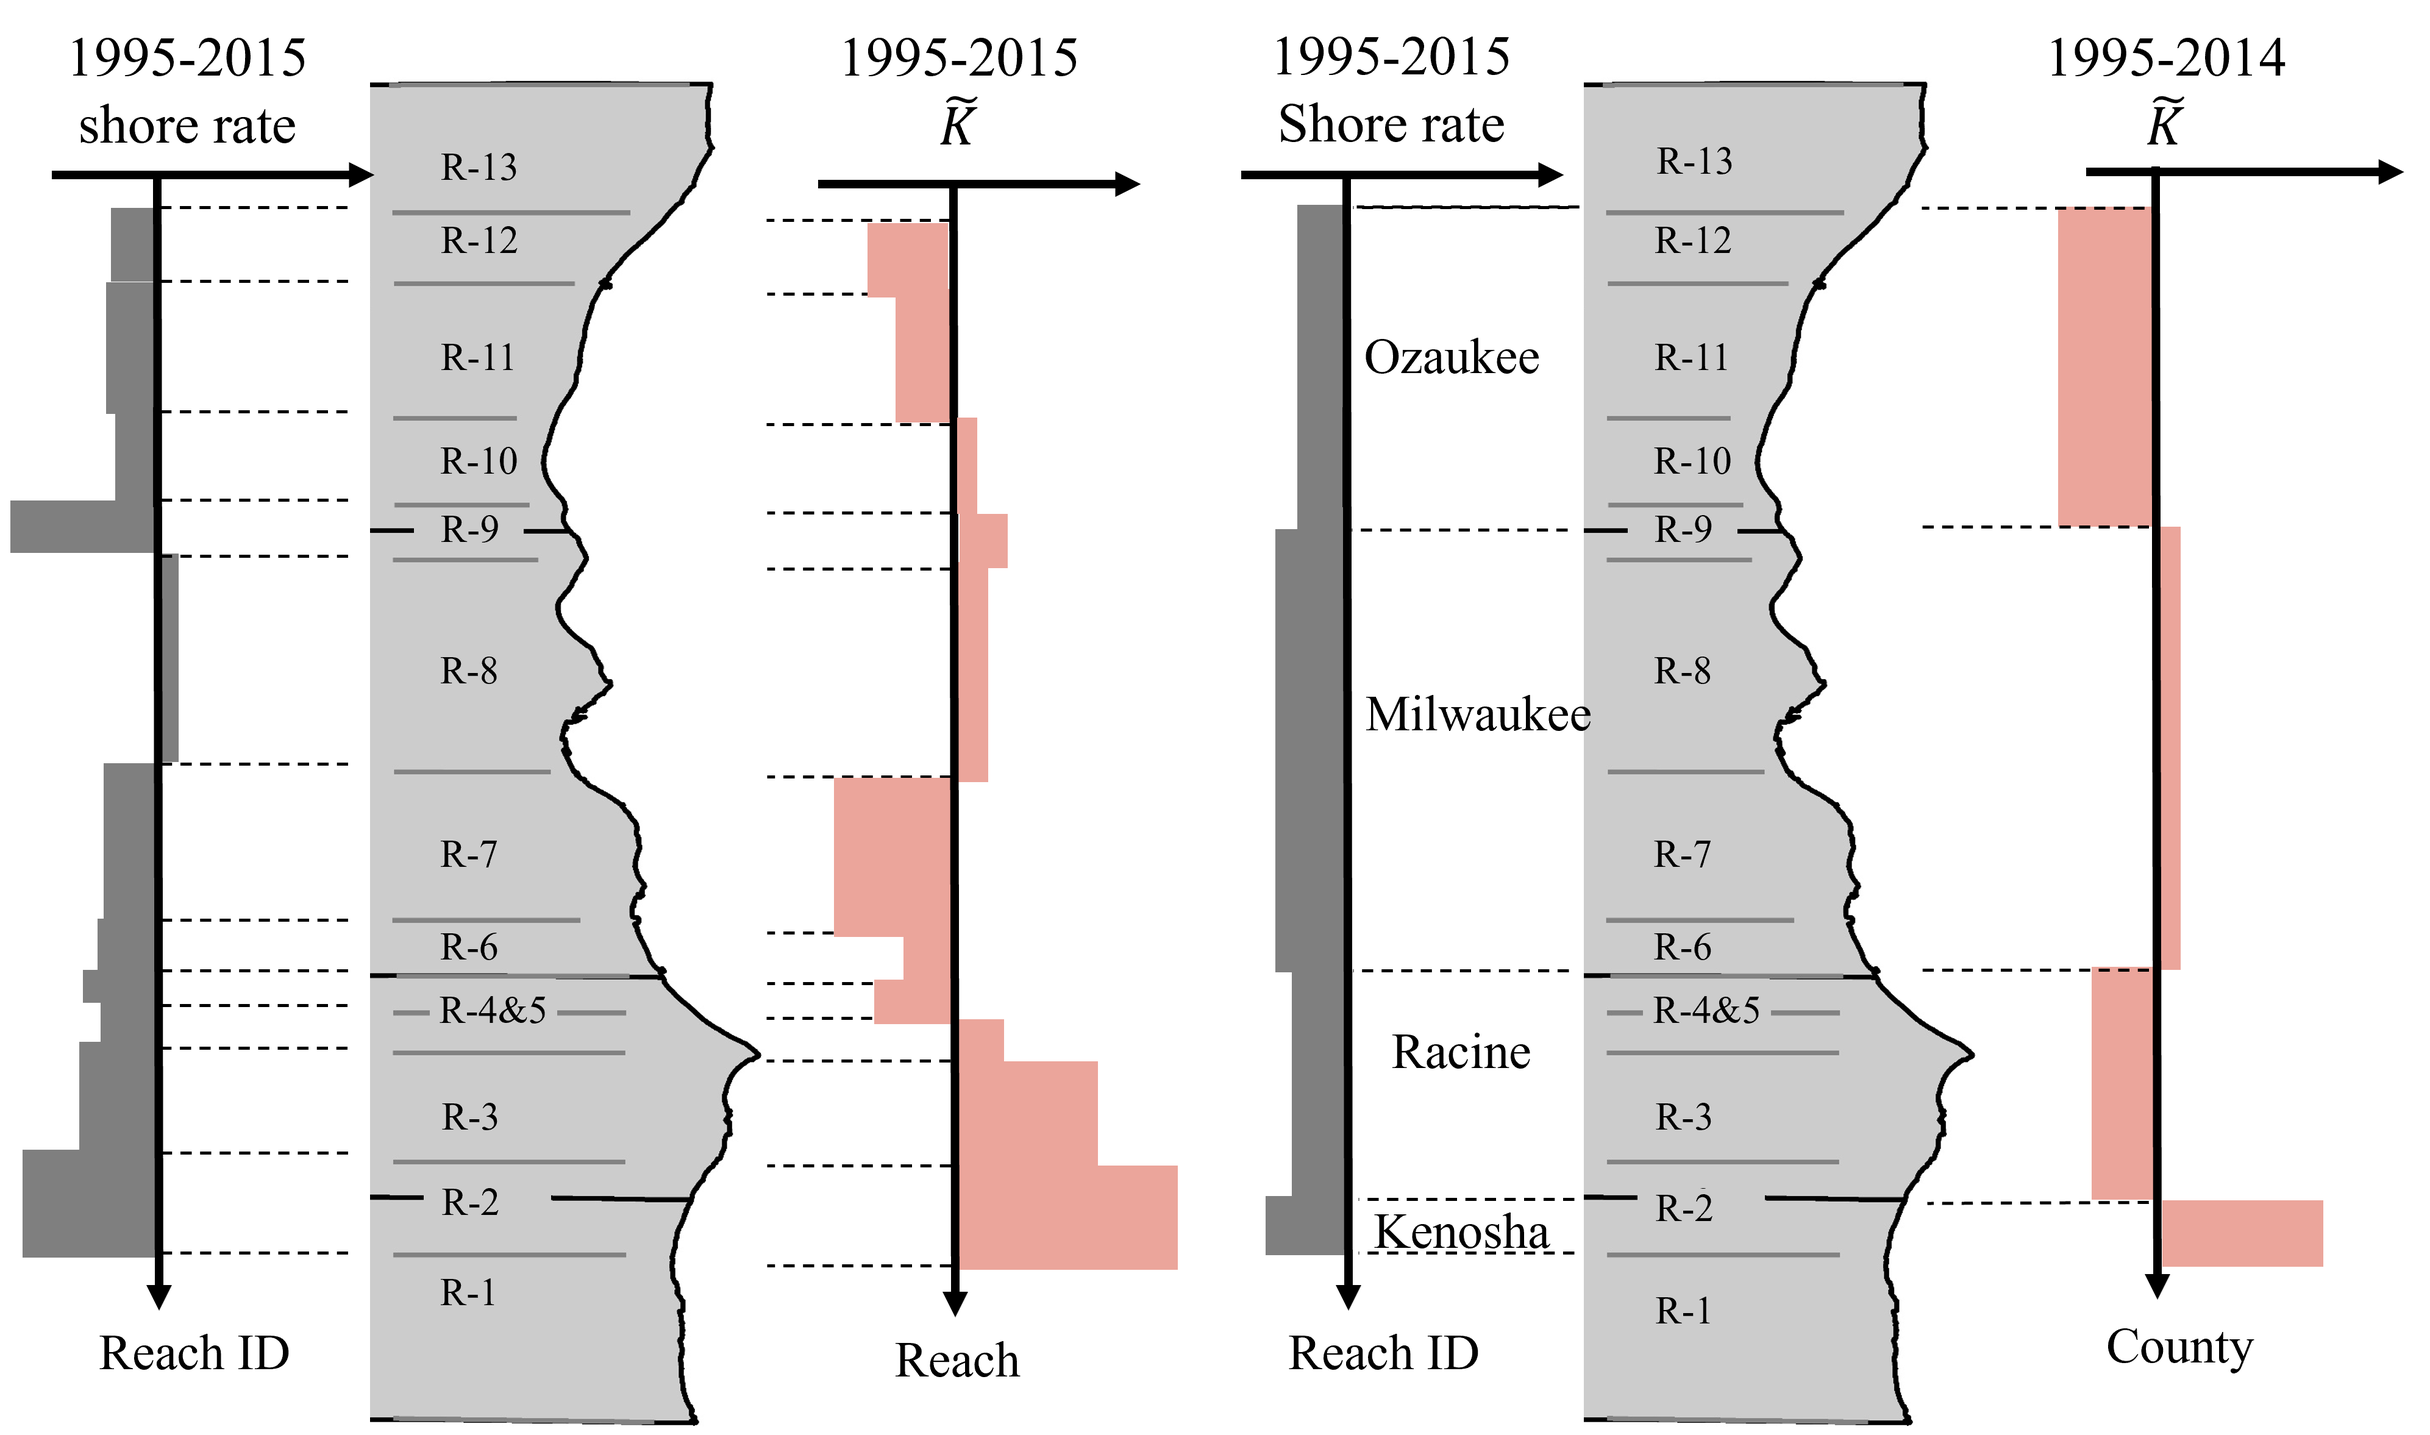
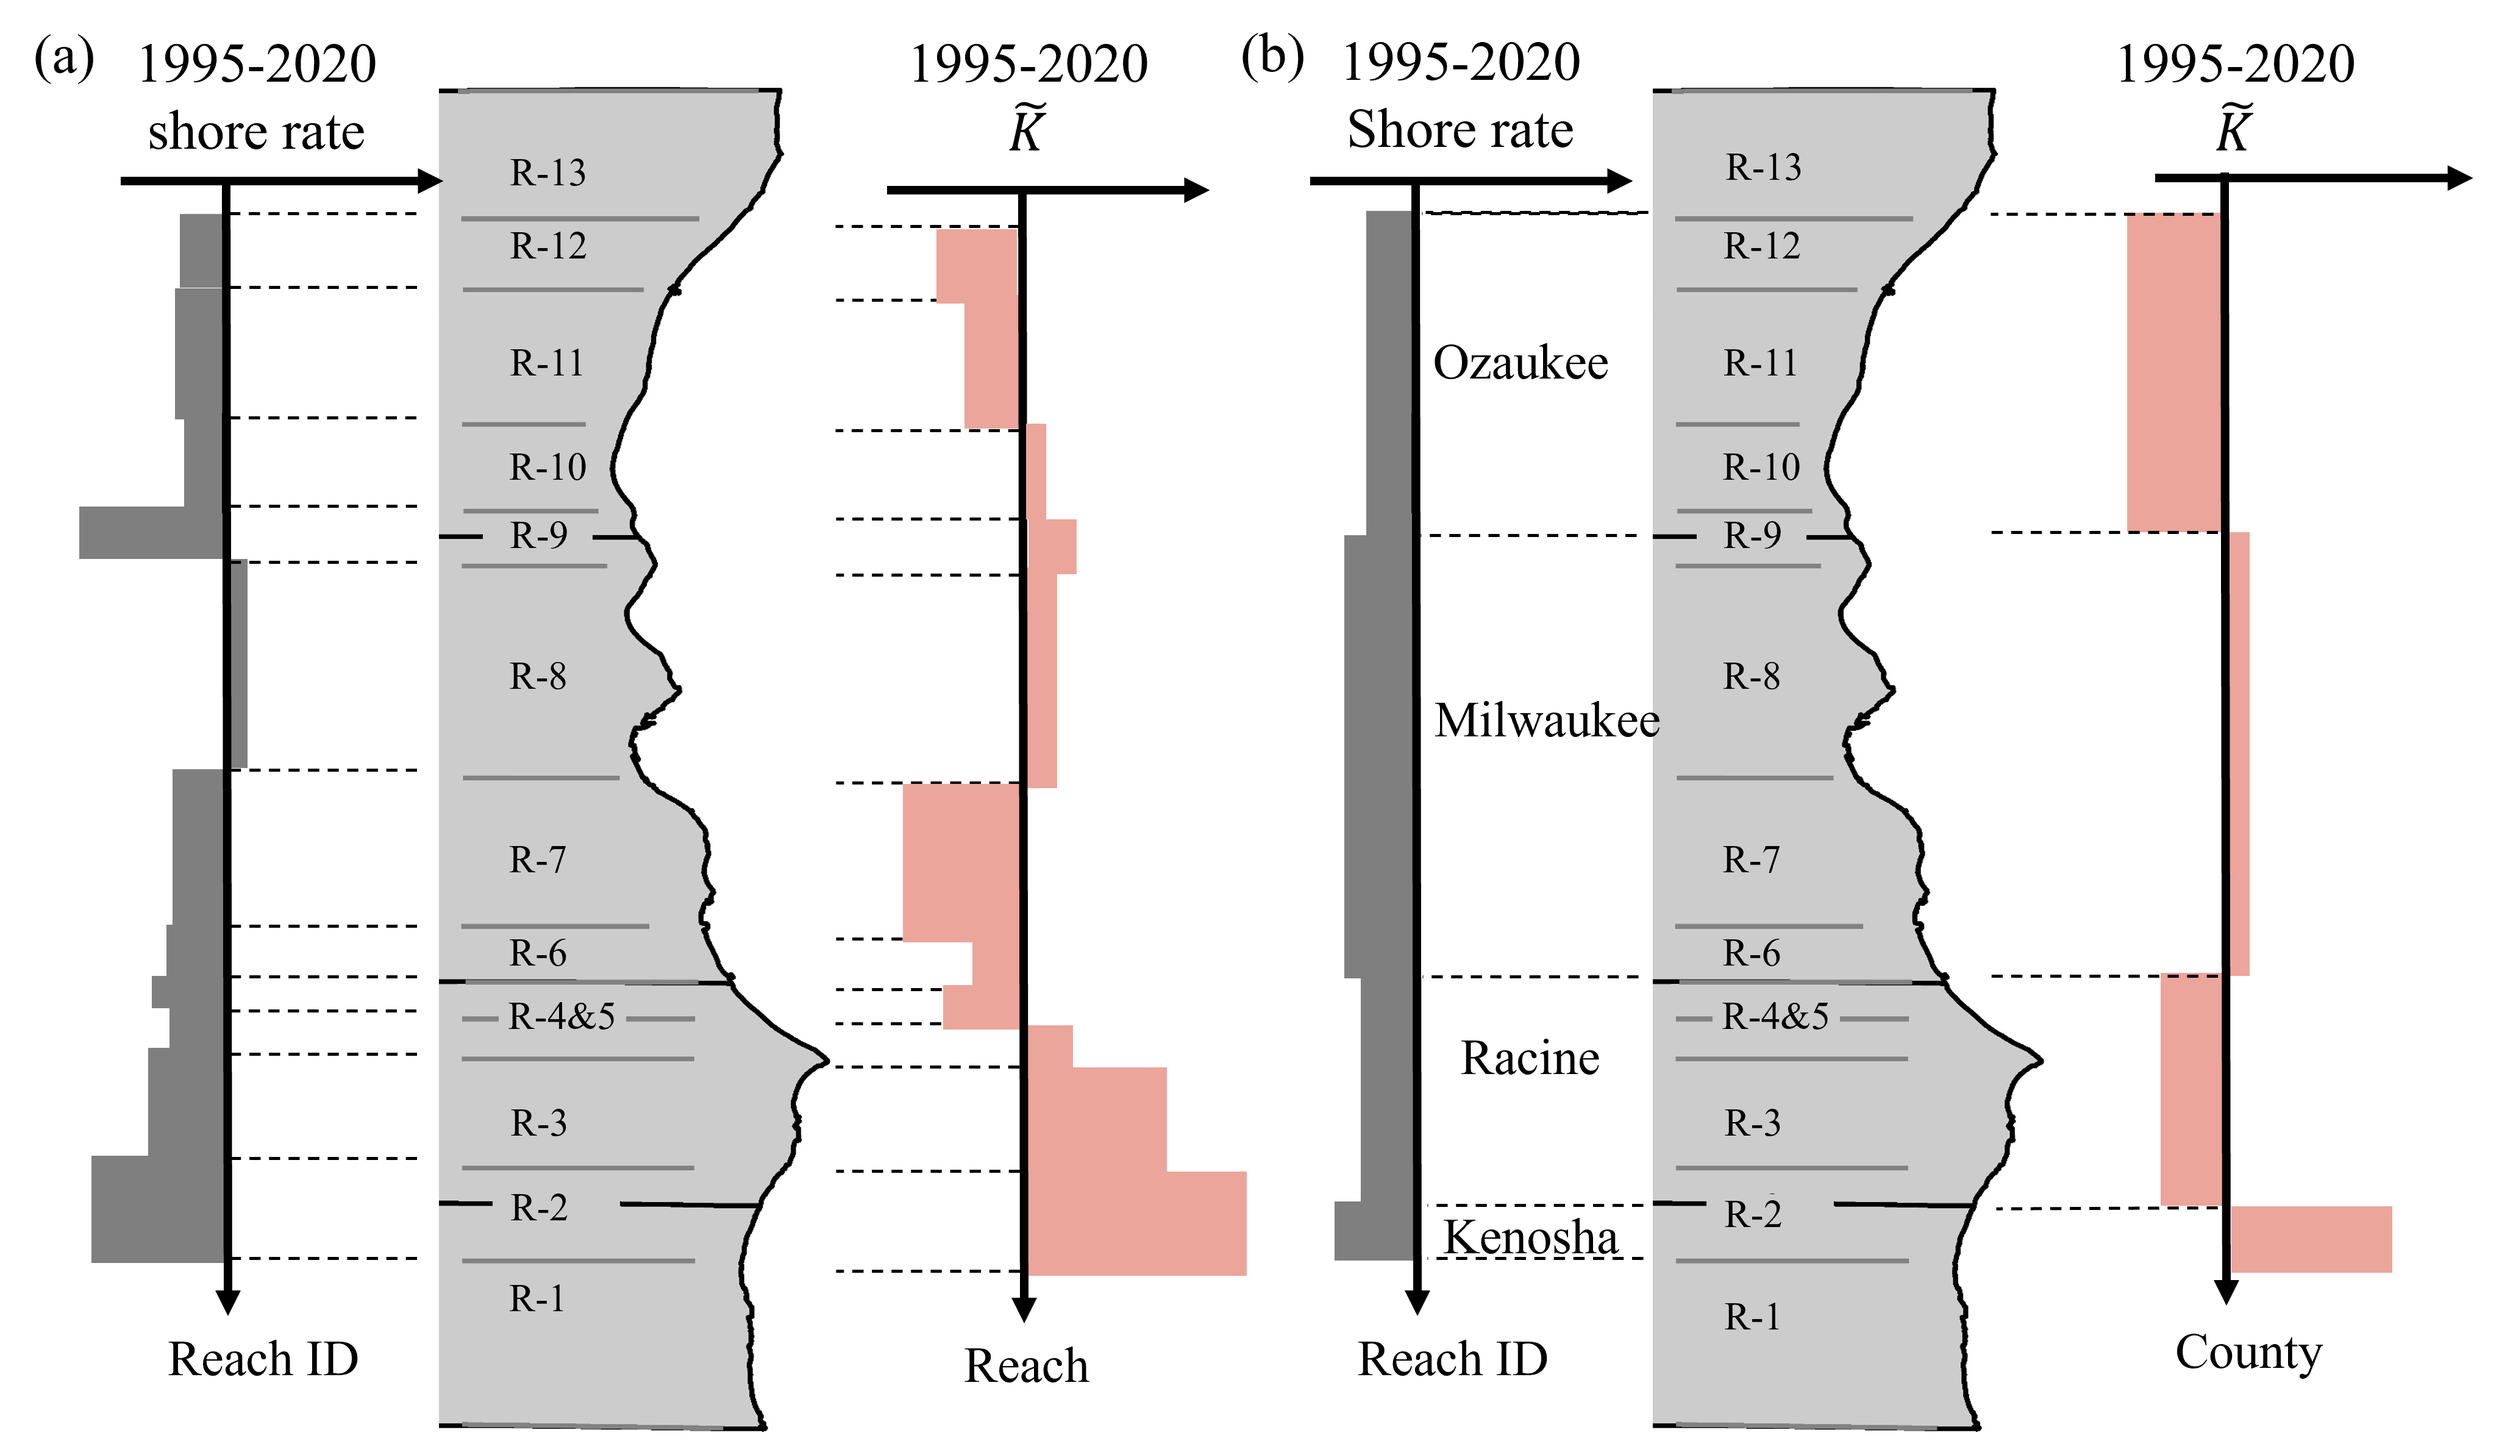
Finish draft of chapter 4

diff --git a/chapter4/chapter4.tex b/chapter4/chapter4.tex
@@ -141,8 +141,6 @@ necessitate a detailed investigation using wave system partitioning techniques
 which applied in oceanic areas, serving as the primary motivation for this
 study.
 
-\textcolor{red}{Need to rewrite}
-
 The objective of this chapter is to characterize the climate of wave systems in
 Lake Michigan by wave spectrum partitioning. To archive this, the directional
 energy spectrum will be contructed using NDBC data from the 2011 to 2023. Wave
@@ -686,28 +684,52 @@ energy, longer swell periods, and alternating bidirectional forcing.
   \label{fig:nearshore_system}
 \end{figure}
 
-Wave systems in nearshore Wave Information Study stations of Lake Michigan were
-presented in Figure \ref{fig:nearshore_system}. The wind-sea and swell data were
-partitioned by Wave Information Study by WAM model configure. The total wave
-height in Lake Michigan (Figure \ref{fig:nearshore_system}a) presented a clear
-spatial variation that wave heights are higher in eastern shoreline than the
-western shoreline due to strong south-eastern wind in the winter
-\citep{huang_wave_2021}. The wind-sea waves share a similar spatial pattern with
-the overall total waves (Figure \ref{fig:nearshore_system}b), where eastern
-shoreline receieves larger waves than the western coastline. Compared to local
-wind-sea waves, the swells (Figure \ref{fig:nearshore_system}c) distributed
-uniformly accross the nearshore of Lake Michigan. The wave heights of swells
-were relatively smaller than wind-sea as the most of wind-sea waves range
-between 0.6-0.8 meters, while the swells span from 0.2-0.4 meters. Figure
-\ref{fig:nearshore_system}d presented the relationship between these two wave
-systems. In Lake Michigan, most of nearshore regions were classified into
-mixed-conditions, where the ratio of wind-sea with total wave energy stay
-between 0.25 to 0.75 (see Equation \ref{eq:eq4.10}). Noticed that in Green Bay
-area (northwestern Lake Michigan) and Grand Traverse Bay (northeastern Lake
-Michigan). The wave conditions are categorized as wind-sea dominant, indicating
-that the swell impacts in these regions are relative tiny. The fetch fields in
-these two bay areas are limited that the waves could not be grown completed into
-swells. The spatial distributions of 
+Wave systems in the nearshore regions of Lake Michigan are illustrated in Figure
+\ref{fig:nearshore_system}. The wind-sea and swell components (2011-2023) were
+partitioned from the WIS dataset based on the WAM model configuration
+\citep{jensen_lake_2012}. The total significant wave height ($H_s$) exhibits a
+clear spatial variations (Figure \ref{fig:nearshore_system}a), with consistently
+larger waves along the eastern shoreline compared to the western shoreline. This
+east–west asymmetry is primarily driven by the prevailing southeasterly winds
+during winter months, which generate longer fetches and stronger wave growth
+along the eastern coasts \citep{huang_wave_2021,abdelhady_shoreline_2025}.
+Wind-sea waves show a spatial distribution that largely mirrors the total wave
+field (Figure \ref{fig:nearshore_system}b). The eastern nearshore consistently
+receives higher wind-sea heights, whereas the western shorelines are more with
+smaller wind-sea waves. In contrast, swell waves (Figure
+\ref{fig:nearshore_system}c) appear more uniformly distributed across the lake’s
+nearshore regions. Their magnitudes, however, remain smaller than those of
+wind-sea waves: while wind-sea $H_s$ typically ranges between 0.6–0.8 m, swell
+$H_s$ generally falls between 0.2–0.4 m. This disparity underscores the
+dominance of locally generated wind-sea waves over remotely developed swell
+within Lake Michigan. The relationship between these two systems is summarized
+in the wave system classification (Figure \ref{fig:nearshore_system}d). Most
+nearshore regions fall into mixed conditions, where the ratio of wind-sea to
+total wave energy remains between 0.25 and 0.75 (see Equation \ref{eq:eq4.10}).
+Notable exceptions occur in semi-enclosed bay environments such as Green Bay
+(northwestern Lake Michigan) and Grand Traverse Bay (northeastern Lake
+Michigan), which are categorized as wind-sea dominant. In these areas, limited
+fetch lengths constrain wave development, preventing the formation of fully
+developed swells. Consequently, local wind forcing exerts a proportionally
+stronger influence on the nearshore wave climate compared to open-coast
+settings. This fetch-limited behavior has been documented for Lake Michigan and
+other sites using modern unstructured SWAN and GLWPS modeling as well as
+effective-fetch methods adapted for inland waters
+\citep[\eg][]{mao_modeling_2016,alves2023noaa,rohweder2008application}. 
+
+The spatial variations in wave systems have important consequences for nearshore
+geomorphic processes and coastal management. Regions dominated by wind-sea
+waves, such as Green Bay and Grand Traverse Bay, are more susceptible to short,
+steep waves that can rapidly mobilize sediment and accelerate localized
+shoreline erosion \citep{voulgaris2000sediment,green2014review}. In contrast,
+mixed-wave conditions along the eastern shoreline expose coasts to both
+persistent swell energy and energetic wind-sea events, which can amplify
+long-term erosion hazards and stress coastal infrastructure
+\citep{mattheus2025response,extreme_Masselink_2016,barnard2017extreme}.
+Recognizing these spatial patterns is therefore essential for designing targeted
+adaptation strategies, such as reinforcing vulnerable shorelines, prioritizing
+monitoring in mixed-energy zones, and accounting for bay-specific wave regimes
+in management and planning decisions \citep{zhu_trends_2024}.
 
 \subsection{Impact of wave system on coastal geomorphic change}
 \label{Impact of wave system on coastal geomorphic change}
@@ -716,17 +738,110 @@ swells. The spatial distributions of
   \centering
   \includegraphics[width=1\textwidth]{chapter4/resources/nearshore_correlation.png}
   \caption{The shoreline erosion rate (1995-2020) vs wave system domiant
-  coefficient $K$. Noticed that $\widetilde{K}$ is the standard-normalization of
-  $K$ }
+  coefficient $K$ (1995-2020). (a) correlation at reach scale. (b) correlation
+  at county scale. Noticed that $\widetilde{K}$ is the standard-normalization of
+  $K$. Negative value denotes a erosion of shoreline}
   \label{fig:nearshore_cor}
 \end{figure}
 
-Wave systems were known for its implications on oceanic subject, such as navigation,
-habitats, etc. On the coastline, wave systems are also known as its impacts on coastal
-geomorphology. The 
+Figure~\ref{fig:nearshore_cor} compares shoreline erosion rates (1995–2020) with
+the wave‐system ratio $K$, defined as the wind–sea energy fraction relative to
+total wave energy ($\widetilde{K}$) denotes its standard–normalized form. At the
+reach scale (Figure \ref{fig:nearshore_cor}a), most reaches exhibit a positive
+association between \(\tilde{K}\) and erosion: where the wind–sea share is
+larger, erosion rates tend to be higher. At the county scale (panel b), this
+relationship becomes clearer and more monotonic, consistent with the expectation
+that spatial aggregation filters local heterogeneity (\eg, landscape, shoreline
+orientation, and armoring) and reveals the underlying wave–forcing signal more
+cleanly \citep{swenson_bluff_2006}.
 
-\subsection{Limitation}
-\label{Limitation}
+The mechanism is physically plausible. A higher wind–sea share implies
+shorter–period, steeper waves that enhance near–bed orbital velocities and
+wave–driven bed shear stress in shallow nearshore waters—conditions that
+efficiently mobilize sediment and favor episodic scarping and shoreline retreat
+\citep{voulgaris2000sediment,green2014review}.  For the Great Lakes
+specifically, storm-driven events repeatedly increase sediment resuspension and
+export in southern Lake Michigan, indicating that event-scale, locally generated
+(wind–sea) forcing is a dominant control on nearshore sediment dynamics
+\citep{kamphuis1987recession,melby2012wave}. Together, these process insights
+align with the empirical patterns in Figure~\ref{fig:nearshore_cor}: coast
+segments and counties characterized by higher \(\tilde{K}\) tend to experience
+greater erosion. 
+
+The differing strengths of the reach– versus county–scale correlations highlight
+the value of a multiscale analysis (Section~\ref{Chapter2}). The fine scale
+(\eg, Figure~\ref{fig:nearshore_cor}a) resolves local process controls—shoreline
+orientation, nearshore bathymetry, landscape, and coastal structures—so it is
+well suited for diagnosing mechanisms and identifying hotspots. However, it is
+also more susceptible to noise and confounding influences. In contrast, the
+sparse or aggregated scale (\eg, Figure~\ref{fig:nearshore_cor}b) suppresses
+much of this local variability, yielding a clearer view of the dominant signal
+linking wave‐system composition and erosion, albeit at the cost of masking
+sub–reach heterogeneity. In practice, a multiscale workflow is therefore
+essential: compute indicators at native resolution (\eg, transect-based scale),
+summarize at reach and county scales, and compare patterns across scales.
+
+\subsection{Limitations and future work}
+\label{c4_Limitation}
+
+This analysis depends on several predefined hyperparameters that govern the
+partitioning outcomes. First, the \emph{wave aging factor}—introduced earlier—is
+a key control on the swell–wind–sea separation. Although multiple values were
+compared and an optimal factor was selected and “validated” in
+Section~\ref{Validation of wave spectrum partitioning}, that evaluation relied
+on agreement with the WIS hindcast (WAM configuration). In other words, it is a
+model–to–model comparison rather than a validation against observed swell and
+wind–sea conditions.
+
+Second, the dominance thresholds in Equation~\ref{eq:eq4.10}, adopted from
+\citet{mazzaretto2024worldwide}, were developed for an oceanic spectral climate.
+These cutoffs may not transfer directly to Lake Michigan; in particular, the
+method appears to under-identify swell-dominant conditions (see Figure
+\ref{fig:nearshore_cor}d).
+
+Third, the present work focuses primarily on a binary partition between swell
+and wind–sea. Subpartitioning within the swell group is also important because
+it can strongly inform the direction and magnitude of sediment transport in
+nearshore settings, as noted by numerous studies
+\citep[\eg][]{mazzaretto2024worldwide,coates_beach_1998,langodan_unraveling_2018,portilla-yandun_climate_2016,sartini_spectral_2024,venolia_historical_2024,zheng_investigation_2024}.
+In addition, there are alternatives for characterizing the spectral climate that
+do not depend on explicit swell partitioning; for example,
+\citet{echevarria_influence_2020,echevarria_seasonal_2019} apply principal
+component analysis directly to the spectral matrix to extract climatic features.
+
+Addressing these limitations suggests several avenues for future work. First,
+validate the aging factor using field observations. Second, test alternative
+thresholds for swell/wind–sea dominance—or propose an alternative metric for
+characterizing dominance. Finally, further analyze the swell climate with
+appropriate methods to better elucidate sediment-transport patterns.
 
 \section{Conclusion}
 \label{c4_Conclusion}
+
+In this chapter, hourly directional spectra from NDBC buoys (2011–2023) were
+constructed and partitioned into wind–sea and swell using a two-dimensional
+watershed approach (Section~\ref{Wave spectral partitions}). Cross-comparisons
+with WIS hindcasts and buoy-constructed spectra indicate consistent construction
+and partitions of wind–sea magnitudes and directions, supporting the robustness
+of the workflow.
+
+The partitioned climatology reveals a clear meridional divide. At 45002, the
+wave field is fetch-limited, predominantly southerly, and characterized by
+short-period wind–seas with secondary swell . At 45007, the regime is more energetic and
+bidirectional: wind–sea arrives from both north and south, and long-period swell
+frequently propagates from opposing directions. Seasonally,
+both sites are calmest in summer and intensify into late autumn and early
+winter, with a notable lengthening of swell periods during this window.
+
+Nearshore analyses from WIS show an east–west gradient, with larger total and
+wind–sea waves along the eastern shore and smaller, fetch-limited conditions
+along the western shore, including southeastern Wisconsin
+(Figure~\ref{fig:nearshore_system}). Classification by the wind–sea energy
+fraction indicates predominantly mixed conditions on open coasts and wind–sea
+dominance in semi-enclosed bays. Across scales, areas with a greater wind–sea
+share align with stronger historical shoreline retreat, linking sea-state
+composition to observed geomorphic change. Collectively, these results establish
+a lake-wide, wave-system perspective and delineate spatial patterns and seasonal
+windows most relevant to hazard assessment and coastal management along the
+southeastern Wisconsin coast.
+
